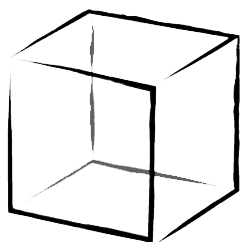
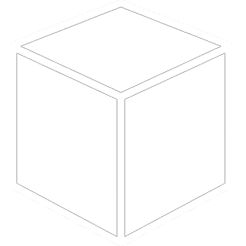
Updated cube size selection graphics in UI. Ported the cube rotation to android devices. Tweaked some values to ensure that different touch functionalities don't interfere.

diff --git a/Assets/Scripts/Classes/Agent/Body.cs b/Assets/Scripts/Classes/Agent/Body.cs
@@ -25,13 +25,16 @@ namespace Assets.Scripts.Classes.Agent
         private Transform _objectToDrag;
         private Vector3 _distance;
 
-
         private List<Collider> _collidersToIgnore;
 
         //double click - change color
         private bool _firstClick;
         private float _initialTime;
         private float _interval = 0.6f;
+
+        //rotation
+        private float _currentRotation;
+
 
         public void Init(Configuration.Size size, Transform body)
         {
@@ -56,7 +59,14 @@ namespace Assets.Scripts.Classes.Agent
         {
             
             Blink();
-            HandleDragging();
+
+
+           HandleRotationInput();
+
+            if (Input.touchCount < 3 || UnityEngine.Application.platform != RuntimePlatform.Android)
+            {
+                HandleDragging();
+            }
         }
 
         public void LateUpdate()
@@ -123,8 +133,66 @@ namespace Assets.Scripts.Classes.Agent
             }
         }
 
+        private void HandleRotationInput()
+        {
+            float rotationSpeed;  //This will determine rotation speed
+            float lerpSpeed;     //This will determine lerp speed
+
+            #if UNITY_ANDROID
+            if (Input.touchCount == 2)
+            {
+                int layer = 8;
+                int layerMask = 1 << layer;
+
+                Touch touchSlider;
+                var touch1 = Input.GetTouch(0);
+                var touch2 = Input.GetTouch(1);
+              
+
+                //TODO ver se um dedo está parado e em cima do cubo e usar o outro para slide senao ver se o outro está parado e usar o primeiro para slider
+
+                if (touch1.phase == TouchPhase.Stationary && Utility.Instance.CheckIfClicked(_body.transform, layerMask, touch1.position))
+                {
+                    touchSlider = touch2;
+                }
+                else if (touch2.phase == TouchPhase.Stationary && Utility.Instance.CheckIfClicked(_body.transform, layerMask, touch2.position))
+                {
+                    touchSlider = touch1;
+                }
+                else
+                {
+                    return;
+                }
+
+               
+                rotationSpeed = 2.0f;
+                lerpSpeed = 10.0f;
+        
+                _currentRotation += touchSlider.deltaPosition.y * rotationSpeed;
+                _body.rotation = Quaternion.Slerp(_body.transform.rotation, Quaternion.Euler(0, _currentRotation, 0), lerpSpeed * Time.deltaTime);
+            }
+            #endif
+
+            #if UNITY_STANDALONE || UNITY_EDITOR
+            if (Input.GetMouseButton(0))
+            {
+                if (Utility.Instance.CheckIfClicked(_body.transform))
+                {
+                    lerpSpeed = 100.0f; 
+                    rotationSpeed = 50.0f;
+                    _currentRotation += Input.GetAxis("Mouse ScrollWheel") * rotationSpeed;
+                    _body.rotation = Quaternion.Slerp(_body.transform.rotation, Quaternion.Euler(0, _currentRotation, 0), lerpSpeed * Time.deltaTime);
+                }
+            }
+            #endif
+        }
+
         private void HandleDragging()
         {
+            //to avoid moving the pieces by accident
+            if (UnityEngine.Application.platform == RuntimePlatform.Android && Input.touchCount > 1)
+                return;
+
             if (Input.GetMouseButtonDown(0))
             {
                 if(Utility.Instance.CheckIfClicked(_objectToDrag))

diff --git a/Assets/Scripts/Classes/Agent/Piece.cs b/Assets/Scripts/Classes/Agent/Piece.cs
@@ -15,7 +15,6 @@ namespace Assets.Scripts.Classes.Agent
         public string Name { get; set; }
         private GameObject _cubeObject;
         private GameObject _root;
-        private float _currentRotation = 0.0f;
         
         private Body _body;
         private Mind _mind;
@@ -83,41 +82,6 @@ namespace Assets.Scripts.Classes.Agent
             _body.Update();
 
             HandleSoundInputStatus();
-            CheckRotationInput();
-            
-        }
-
-        private void CheckRotationInput()
-        {
-
-            if (Input.GetMouseButton(0))
-            {
-                if (Utility.Instance.CheckIfClicked(_cubeObject.transform))
-                {
-                    float lerpSpeed = 100.0f;  //This will determine lerp speed
-                    float rotationSpeed = 50.0f;  //This will determine rotation speed
-
-                    //Keeping this approach for touch implementation
-                    /*
-                    //Get mouse position
-                    Vector3 mousePos = Input.mousePosition;
-
-                    //Adjust mouse z position
-                    mousePos.z = Camera.main.transform.position.y - _cubeObject.transform.position.y;
-
-                    //Get a world position for the mouse
-                    Vector3 mouseWorldPos = Camera.main.ScreenToWorldPoint(mousePos);
-
-                    //Get the angle to rotate and rotate
-                    Debug.Log("wheel " + Input.GetAxis("Mouse ScrollWheel"));
-                    float angle = -Mathf.Atan2(_cubeObject.transform.position.z - mouseWorldPos.z, _cubeObject.transform.position.x - mouseWorldPos.x) * Mathf.Rad2Deg;
-                    _cubeObject.transform.rotation = Quaternion.Slerp(_cubeObject.transform.rotation, Quaternion.Euler(0, Input.GetAxis("Mouse ScrollWheel") * 50, 0), rotationSpeed * Time.deltaTime);
-                    */
-
-                    _currentRotation += Input.GetAxis("Mouse ScrollWheel") * rotationSpeed;
-                    _cubeObject.transform.rotation = Quaternion.Slerp(_cubeObject.transform.rotation, Quaternion.Euler(0, _currentRotation , 0), lerpSpeed * Time.deltaTime);
-                }
-            }
         }
 
         private void HandleSoundInputStatus()

diff --git a/Assets/Scripts/Scripts/CameraControl/ThirdPersonCamera.cs b/Assets/Scripts/Scripts/CameraControl/ThirdPersonCamera.cs
@@ -83,7 +83,7 @@ namespace Assets.Scripts.Scripts.CameraControl
         private void HandleTouchInput()
         {
             //rotating the camera
-            if (Input.touchCount > 1 && Input.GetTouch(0).phase == TouchPhase.Moved)
+            if (Input.touchCount == 2 && Input.GetTouch(0).phase == TouchPhase.Moved && Input.GetTouch(1).phase == TouchPhase.Moved)
             {
                 var touch1 = Input.GetTouch(0);
 
@@ -106,7 +106,7 @@ namespace Assets.Scripts.Scripts.CameraControl
             if (!_birdEyeViewActive)
             {
                 //zoom camera
-                if (Input.touchCount > 1 && (Input.GetTouch(0).phase == TouchPhase.Moved || Input.GetTouch(1).phase == TouchPhase.Moved))
+                if (Input.touchCount == 2 && (Input.GetTouch(0).phase == TouchPhase.Moved || Input.GetTouch(1).phase == TouchPhase.Moved))
                 {
                     var touch1 = Input.GetTouch(0);
 

diff --git a/Assets/Scripts/Classes/Helpers/Utility.cs b/Assets/Scripts/Classes/Helpers/Utility.cs
@@ -19,9 +19,16 @@ namespace Assets.Scripts.Classes.Helpers
             }
         }
 
-        public bool CheckIfClicked(Transform transform, int layerMask = -1)
+        public bool CheckIfClicked(Transform transform, int layerMask = -1, Vector3 position = new Vector3())
         {
-            _ray = Camera.main.ScreenPointToRay(Input.mousePosition);
+            if (position == new Vector3())
+            {
+                _ray = Camera.main.ScreenPointToRay(Input.mousePosition);
+            }
+            else
+            {
+                _ray = Camera.main.ScreenPointToRay(position);
+            }
 
             // if the layermask is not defined
             if (layerMask == -1)
@@ -41,7 +48,6 @@ namespace Assets.Scripts.Classes.Helpers
 
             return false;
         }
-
 
         //By turnipski at Reddit
         public static Bounds GetChildRendererBounds(GameObject go)
